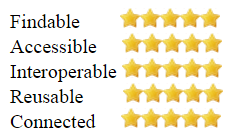
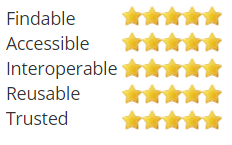
Updating calculation and styles

diff --git a/htdocs/js/5-star-oznome-data.js b/htdocs/js/5-star-oznome-data.js
@@ -35,19 +35,19 @@ var surveyJSON = {
        text: "File download"
       },
       {
-       value: "3.5",
+       value: "4",
        text: "Institutional or community repository"
       },
       {
-       value: "4",
+       value: "5",
        text: "Bespoke web service (informal API)"
       },
       {
-       value: "4.5",
+       value: "6",
        text: "Bespoke web service (OpenAPI/Swagger)"
       },
       {
-       value: "5",
+       value: "7",
        text: "Standard web service API (e.g. OGC)"
       }
      ],
@@ -68,23 +68,23 @@ var surveyJSON = {
        text: "Local identifier"
       },
       {
-       value: "2.5",
+       value: "3",
        text: "Web address (URL - not guaranteed stable)"
       },
       {
-       value: "3",
+       value: "4",
        text: "Persistent web identifier (URI)"
       }
      ],
      commentText: "5-star citeable",
-     name: "question4",
+     name: "question3",
      title: "Citeable - denoted using a formal identifier"
     },
     {
      type: "radiogroup",
      choices: [
       {
-       value: "0",
+       value: "1",
        text: "No metadata"
       },
       {
@@ -105,7 +105,7 @@ var surveyJSON = {
       }
      ],
      commentText: "5-star described",
-     name: "question3.5",
+     name: "question4",
      title: "Described - tagged with metadata"
     },
     {
@@ -129,7 +129,7 @@ var surveyJSON = {
       }
      ],
      commentText: "5-star findable",
-     name: "question3",
+     name: "question5",
      title: "Findable - indexed in a discovery system "
     }
    ],
@@ -155,7 +155,7 @@ var surveyJSON = {
       }
      ],
      commentText: "5-star loadable",
-     name: "question5",
+     name: "question6",
      title: "Loadable - represented using a common or community-endorsed (i.e. standard) format"
     },
     {
@@ -170,11 +170,11 @@ var surveyJSON = {
        text: "explicit schema or data model, formalized in DDL, XSD, DDI, RDFS, JSON-Schema, data-package or similar"
       },
       {
-       value: "4",
+       value: "3",
        text: "community-shared schema or data model , available from a standard location"
       }
      ],
-     name: "question6",
+     name: "question7",
      title: "Useable - structured using a discoverable, community-endorsed (standard?) schema or data model"
     },
     {
@@ -185,23 +185,23 @@ var surveyJSON = {
        text: "local field codes or labels"
       },
       {
-       value: "1.1",
+       value: "2",
        text: "labels with full text explanations"
       },
       {
-       value: "1.2",
+       value: "3",
        text: "community standard labels (e.g. CF Conventions, UCUM units)"
       },
       {
-       value: "2",
+       value: "4",
        text: "some fields linked to externally managed definitions"
       },
       {
-       value: "3",
+       value: "5",
        text: "all fields linked to standard, externally managed definitions"
       }
      ],
-     name: "question9",
+     name: "question8",
      title: "Comprehensible - supported with unambiguous definitions for all internal elements"
     },
     {
@@ -220,7 +220,7 @@ var surveyJSON = {
        text: "out-bound links to related data and definitions"
       }
      ],
-     name: "question7",
+     name: "question9",
      title: "Linked - to other data and definitions using public identifiers (e.g. URIs)"
     },
     {
@@ -235,11 +235,11 @@ var surveyJSON = {
        text: "license described in text"
       },
       {
-       value: "2.5",
+       value: "3",
        text: "link to a standard license (e.g. Creative Commons)"
       }
      ],
-     name: "question14",
+     name: "question10",
      title: "Licensed - conditions for re-use are available and clearly expressed"
     }
    ],
@@ -268,7 +268,7 @@ var surveyJSON = {
        text: "certified repository"
       }
      ],
-     name: "question8",
+     name: "question11",
      title: "Curated - commitment to ensuring the data is available long term"
     },
     {
@@ -287,7 +287,7 @@ var surveyJSON = {
        text: "part of series - regular scheduled updates"
       }
      ],
-     name: "question11",
+     name: "question12",
      title: "Updated - part of a regular data collection program or series, with clear maintenance arrangements and update schedule"
     },
     {
@@ -302,11 +302,11 @@ var surveyJSON = {
        text: "text lineage statement"
       },
       {
-       value: "2.5",
+       value: "3",
        text: "formal provenance trace (e.g. PROV-O)"
       }
      ],
-     name: "question12",
+     name: "question13",
      title: "Assessable - accompanied by, or linked to, a data-quality assessment and description of the origin and workflow that produced the data"
     },
     {
@@ -321,11 +321,11 @@ var surveyJSON = {
        text: "usage statistics available"
       },
       {
-       value: "2.5",
+       value: "3",
        text: "Clearly endorsed by reputable organization or framework"
       }
      ],
-     name: "question15",
+     name: "question14",
      title: "Trusted -  accompanied by, or linked to, information about how the data has been used, by whom, and how many times"
     }
    ],
@@ -486,28 +486,28 @@ var calculateRatings = function(data) {
 	}
 	
 	if('question2' in data) {
-		accessible.push(scaleRatingsUpFrom(data['question2'],5));		
+		accessible.push(scaleRatingsUpFrom(data['question2'],7));		
 	}
 	if('question3' in data) {
-		findable.push(scaleRatingsUpFrom(data['question3'],3)); //scale up from 3 options
+		findable.push(scaleRatingsUpFrom(data['question3'],4)); //scale up from 3 options
 	}
 	if('question4' in data) { //scale up from 3 options
-		reusable.push(scaleRatingsUpFrom(data['question4'],3));
-		findable.push(scaleRatingsUpFrom(data['question4'],3)); 
+		reusable.push(scaleRatingsUpFrom(data['question4'],5));
+		findable.push(scaleRatingsUpFrom(data['question4'],5)); 
 	}
 	if('question5' in data) { //scale up from 3 options
-		reusable.push(scaleRatingsUpFrom(data['question5'],3));
-		findable.push(scaleRatingsUpFrom(data['question5'],3)); 		
+		reusable.push(scaleRatingsUpFrom(data['question5'],4));
+		findable.push(scaleRatingsUpFrom(data['question5'],4)); 		
 	}
 	if('question6' in data) { //scale up from 4 options
-		interoperable.push(scaleRatingsUpFrom(data['question6'],4));		
+		interoperable.push(scaleRatingsUpFrom(data['question6'],3));		
 	}
 	if('question7' in data) { //scale up from 3 options
-		interoperable.push(scaleRatingsUpFrom(data['question7'],4));
-		reusable.push(scaleRatingsUpFrom(data['question7'],4));	
+		interoperable.push(scaleRatingsUpFrom(data['question7'],3));
+		reusable.push(scaleRatingsUpFrom(data['question7'],3));	
 	}
 	if('question8' in data) { //scale up from 3 options
-		interoperable.push(scaleRatingsUpFrom(data['question8'],3));		
+		interoperable.push(scaleRatingsUpFrom(data['question8'],5));		
 	}
 	if('question9' in data) { //scale up from 3 options
 		interoperable.push(scaleRatingsUpFrom(data['question9'],3));
@@ -516,16 +516,16 @@ var calculateRatings = function(data) {
 		reusable.push(scaleRatingsUpFrom(data['question10'],3));
 	}
 	if('question11' in data) { //scale up from 3 options
-		accessible.push(scaleRatingsUpFrom(data['question11'],3));
+		accessible.push(scaleRatingsUpFrom(data['question11'],4));
 	}
 	if('question12' in data) { //scale up from 2 options
-		trusted.push(scaleRatingsUpFrom(data['question12'],2));
+		trusted.push(scaleRatingsUpFrom(data['question12'],3));
 	}
 	if('question13' in data) { //scale up from 3 options
 		reusable.push(scaleRatingsUpFrom(data['question13'],3));
 	}
 	if('question14' in data) { //scale up from 2 options
-		trusted.push(scaleRatingsUpFrom(data['question14'],2));
+		trusted.push(scaleRatingsUpFrom(data['question14'],3));
 	}
 	if('question15' in data) { //scale up from 2 options
 		
@@ -599,7 +599,40 @@ var scaleRatingsUpFrom = function (rating, maxNumOptions) {
 		if(curr == 5) 
 			newVal = 5;
 	}
+	if(maxNumOptions == 6) {
+		newVal = curr;
+		if(curr == 1) 
+			newVal = 0;
+		if(curr == 2) 
+			newVal = 1;		
+		if(curr == 3) 
+			newVal = 2;	
+		if(curr == 4) 
+			newVal = 3;
+		if(curr == 5) 
+			newVal = 4;
+		if(curr == 6) 
+			newVal = 5;
+	}
 
+	if(maxNumOptions == 7) {
+		newVal = curr;
+		if(curr == 1) 
+			newVal = 0;
+		if(curr == 2) 
+			newVal = 1;		
+		if(curr == 3) 
+			newVal = 2;	
+		if(curr == 4) 
+			newVal = 3;
+		if(curr == 5) 
+			newVal = 3.5;
+		if(curr == 6) 
+			newVal = 4;
+		if(curr == 7) 
+			newVal = 5;
+	}
+	
 	return newVal;
 }
 

diff --git a/htdocs/index.html b/htdocs/index.html
@@ -121,12 +121,31 @@
 						   <!--<pre></pre>-->
 						   <div class="dataset-title" style="margin-top: 20px"></div>
 						   <!--<canvas id="surveyChart" width="400" height="400"></canvas>-->
-						   <div class="oznome-stars" id="oznome-stars" style="margin-top: 20px">
-						   <span>Findable</span><span class="rateit custom" id="findable-rating" data-rateit-resetable='false' data-rateit-readonly="true"></span><br/>
-						   <span>Accessible</span><span class="rateit custom" id="accessible-rating" data-rateit-resetable='false' data-rateit-readonly="true"></span><br/>
-						   <span>Interoperable</span><span class="rateit custom" id="interoperable-rating" data-rateit-resetable='false' data-rateit-readonly="true"></span><br/>
-						   <span>Reusable</span><span class="rateit custom" id="reusable-rating" data-rateit-resetable='false' data-rateit-readonly="true"></span><br/>
-						   <span>Trusted</span><span class="rateit custom" id="trusted-rating" data-rateit-resetable='false' data-rateit-readonly="true"></span><br/>
+						   <div class="row oznome-stars" id="oznome-stars" style="margin-top: 20px">
+						   
+						   <!--
+						      <div class="col-md-6 oznome-stars-title-col">
+								   <div class="oznome-stars-title">Findable</div>
+								   <div class="oznome-stars-title">Accessible</div>
+								   <div class="oznome-stars-title">Interoperable</div>
+								   <div class="oznome-stars-title">Reusable</div>
+								   <div class="oznome-stars-title">Trusted</div>
+							  </div>
+  						      <div class="col-md-6 oznome-stars-col">
+								   <div class="rateit custom" id="findable-rating" data-rateit-resetable='false' data-rateit-readonly="true"></div><br/>
+								   <div class="rateit custom" id="accessible-rating" data-rateit-resetable='false' data-rateit-readonly="true"></div><br/>
+								   <div class="rateit custom" id="interoperable-rating" data-rateit-resetable='false' data-rateit-readonly="true"></div><br/>
+								   <div class="rateit custom" id="reusable-rating" data-rateit-resetable='false' data-rateit-readonly="true"></div><br/>
+								   <div class="rateit custom" id="trusted-rating" data-rateit-resetable='false' data-rateit-readonly="true"></div>		<br/>						   
+							  </div>
+-->
+						   
+						   <span class="oznome-stars-title">Findable</span><span class="rateit custom" id="findable-rating" data-rateit-resetable='false' data-rateit-readonly="true"></span><br/>
+						   <span class="oznome-stars-title">Accessible</span><span class="rateit custom" id="accessible-rating" data-rateit-resetable='false' data-rateit-readonly="true"></span><br/>
+						   <span class="oznome-stars-title">Interoperable</span><span class="rateit custom" id="interoperable-rating" data-rateit-resetable='false' data-rateit-readonly="true"></span><br/>
+						   <span class="oznome-stars-title">Reusable</span><span class="rateit custom" id="reusable-rating" data-rateit-resetable='false' data-rateit-readonly="true"></span><br/>
+						   <span class="oznome-stars-title">Trusted</span><span class="rateit custom" id="trusted-rating" data-rateit-resetable='false' data-rateit-readonly="true"></span><br/>
+						   
 						   </div>
 						   
 						   <div id="5star-average" style="margin-top: 20px"></div>

diff --git a/htdocs/css/scrolling-nav.css b/htdocs/css/scrolling-nav.css
@@ -194,3 +194,20 @@ footer {
 .container .text-muted {
   margin: 20px 0;
 }
+
+/*
+.oznome-stars {
+	text-align: left;
+}
+.oznome-stars-title-col {
+	padding-left: 150px !important;
+}
+.oznome-stars-title {
+	text-align: left !important; 
+	padding-right: 10px !important;
+	margin-right: 10px !important;
+}
+*/
+.oznome-stars-title {
+	padding-right: 10px !important;
+}

diff --git a/htdocs/css/style.css b/htdocs/css/style.css
@@ -33,3 +33,9 @@ html, body {
 	height: 100%;
 	
 }
+
+.oznome-stars-title {
+	text-align: left !important; 
+	padding-right: 10px !important;
+	margin-right: 10px !important;
+}
